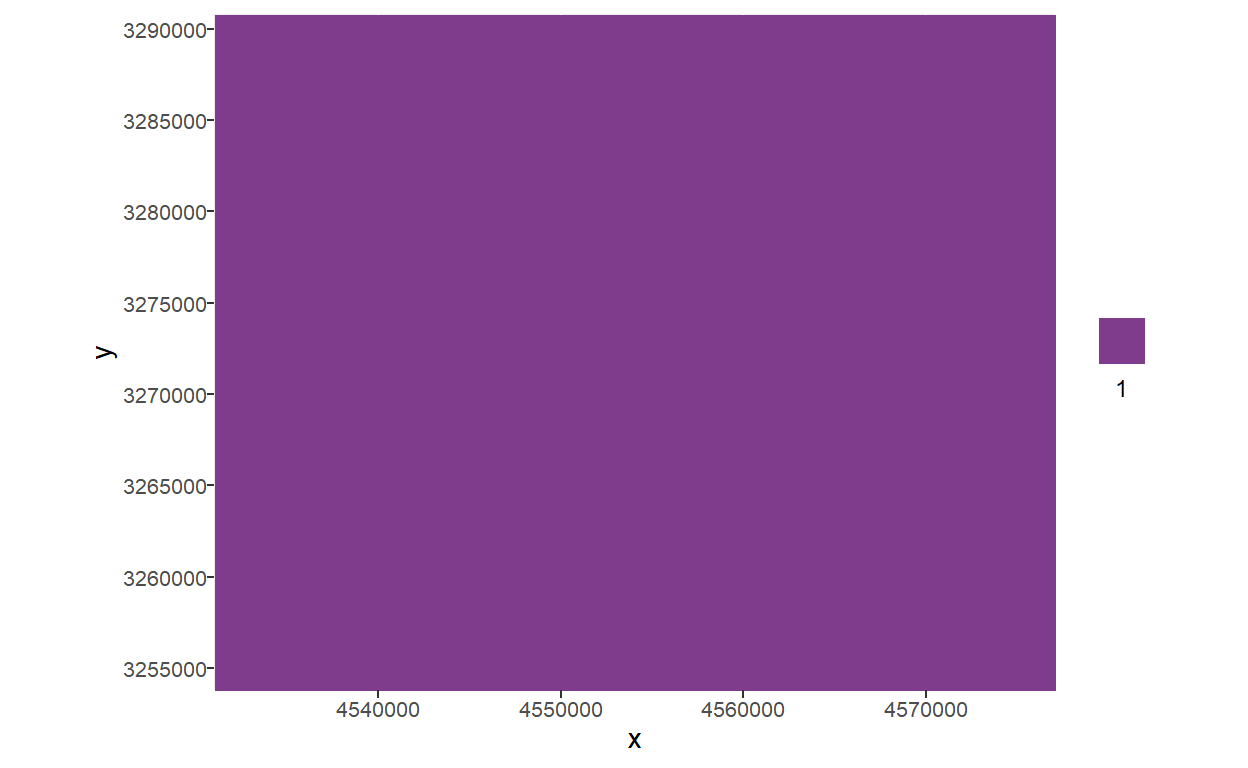
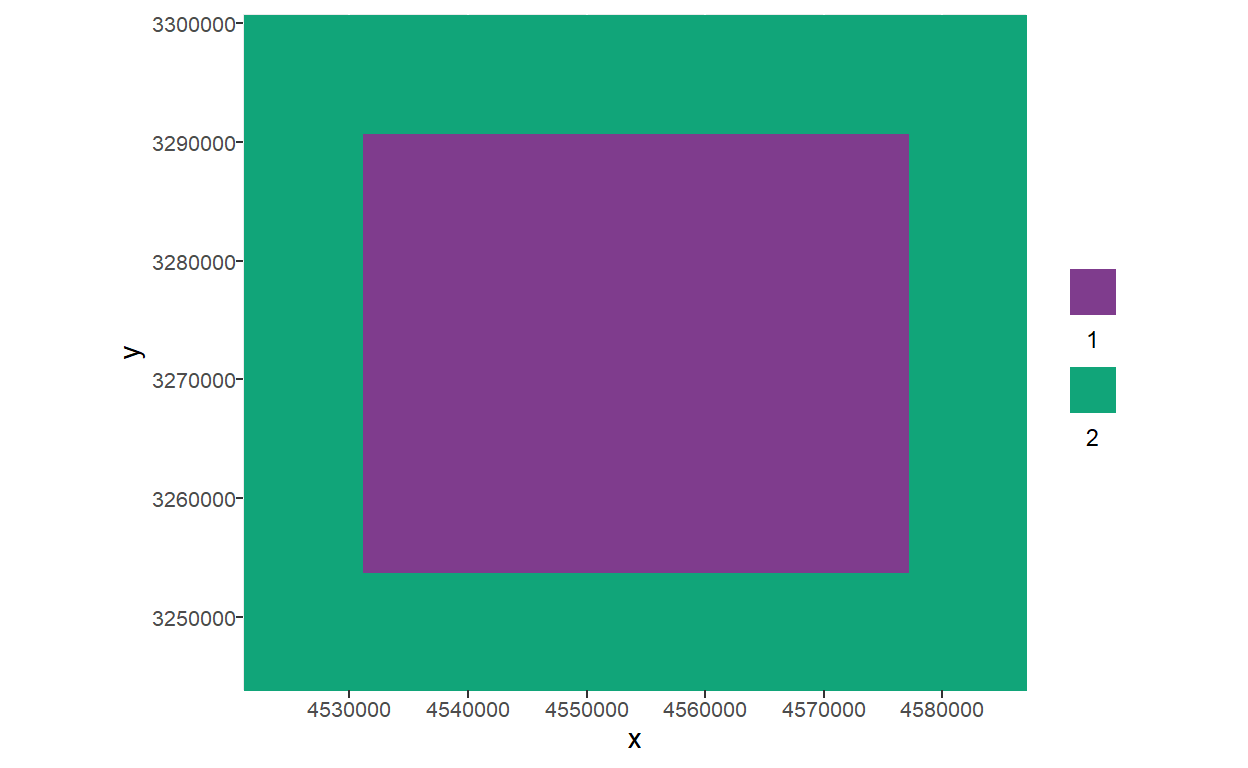
updated rastertemp post

diff --git a/_posts/rastertemplate/rastertemplate.html b/_posts/rastertemplate/rastertemplate.html
@@ -94,8 +94,8 @@ code span.wa { color: #5e5e5e; font-style: italic; } /* Warning */
 
 
   <!--  https://schema.org/Article -->
-  <meta property="article:published" itemprop="datePublished" content="2023-06-28"/>
-  <meta property="article:created" itemprop="dateCreated" content="2023-06-28"/>
+  <meta property="article:published" itemprop="datePublished" content="2023-07-11"/>
+  <meta property="article:created" itemprop="dateCreated" content="2023-07-11"/>
   <meta name="article:author" content="Moritz Wenzler-Meya"/>
 
   <!--  https://developers.facebook.com/docs/sharing/webmasters#markup -->
@@ -113,7 +113,7 @@ code span.wa { color: #5e5e5e; font-style: italic; } /* Warning */
   <!--radix_placeholder_rmarkdown_metadata-->
 
   <script type="text/json" id="radix-rmarkdown-metadata">
-  {"type":"list","attributes":{"names":{"type":"character","attributes":{},"value":["title","description","categories","author","date","output","draft"]}},"value":[{"type":"character","attributes":{},"value":["Raster Template"]},{"type":"character","attributes":{},"value":["Learn how to use a raster template from the `{d6geodata}` package und how to multiple/expand it. In the end we will rasterize a shapefile with the raster and have a look into different extraction functions.\n"]},{"type":"character","attributes":{},"value":["Tutorial","Spatial"]},{"type":"list","attributes":{},"value":[{"type":"list","attributes":{"names":{"type":"character","attributes":{},"value":["name","affiliation","affiliation_url"]}},"value":[{"type":"character","attributes":{},"value":["Moritz Wenzler-Meya"]},{"type":"character","attributes":{},"value":["IZW Berlin"]},{"type":"character","attributes":{},"value":["https://ecodynizw.github.io/"]}]}]},{"type":"character","attributes":{},"value":["2023-06-28"]},{"type":"list","attributes":{"names":{"type":"character","attributes":{},"value":["distill::distill_article"]}},"value":[{"type":"list","attributes":{"names":{"type":"character","attributes":{},"value":["self_contained","toc"]}},"value":[{"type":"logical","attributes":{},"value":[false]},{"type":"logical","attributes":{},"value":[true]}]}]},{"type":"logical","attributes":{},"value":[true]}]}
+  {"type":"list","attributes":{"names":{"type":"character","attributes":{},"value":["title","description","categories","author","date","output","draft"]}},"value":[{"type":"character","attributes":{},"value":["Raster Template"]},{"type":"character","attributes":{},"value":["Learn how to use a raster template from the `{d6geodata}` package und how to multiple/expand it. In the end we will rasterize a shapefile with the raster and have a look into different extraction functions.\n"]},{"type":"character","attributes":{},"value":["Tutorial","Spatial"]},{"type":"list","attributes":{},"value":[{"type":"list","attributes":{"names":{"type":"character","attributes":{},"value":["name","affiliation","affiliation_url"]}},"value":[{"type":"character","attributes":{},"value":["Moritz Wenzler-Meya"]},{"type":"character","attributes":{},"value":["IZW Berlin"]},{"type":"character","attributes":{},"value":["https://ecodynizw.github.io/"]}]}]},{"type":"character","attributes":{},"value":["2023-07-11"]},{"type":"list","attributes":{"names":{"type":"character","attributes":{},"value":["distill::distill_article"]}},"value":[{"type":"list","attributes":{"names":{"type":"character","attributes":{},"value":["self_contained","toc"]}},"value":[{"type":"logical","attributes":{},"value":[false]},{"type":"logical","attributes":{},"value":[true]}]}]},{"type":"logical","attributes":{},"value":[true]}]}
   </script>
   <!--/radix_placeholder_rmarkdown_metadata-->
   
@@ -1496,7 +1496,7 @@ code span.wa { color: #5e5e5e; font-style: italic; } /* Warning */
 <!--radix_placeholder_front_matter-->
 
 <script id="distill-front-matter" type="text/json">
-{"title":"Raster Template","description":"Learn how to use a raster template from the `{d6geodata}` package und how to multiple/expand it. In the end we will rasterize a shapefile with the raster and have a look into different extraction functions.","authors":[{"author":"Moritz Wenzler-Meya","authorURL":"#","affiliation":"IZW Berlin","affiliationURL":"https://ecodynizw.github.io/","orcidID":""}],"publishedDate":"2023-06-28T00:00:00.000+02:00","citationText":"Wenzler-Meya, 2023"}
+{"title":"Raster Template","description":"Learn how to use a raster template from the `{d6geodata}` package und how to multiple/expand it. In the end we will rasterize a shapefile with the raster and have a look into different extraction functions.","authors":[{"author":"Moritz Wenzler-Meya","authorURL":"#","affiliation":"IZW Berlin","affiliationURL":"https://ecodynizw.github.io/","orcidID":""}],"publishedDate":"2023-07-11T00:00:00.000+02:00","citationText":"Wenzler-Meya, 2023"}
 </script>
 
 <!--/radix_placeholder_front_matter-->
@@ -1519,7 +1519,7 @@ code span.wa { color: #5e5e5e; font-style: italic; } /* Warning */
 <div class="d-byline">
   Moritz Wenzler-Meya  (IZW Berlin)<a href="https://ecodynizw.github.io/" class="uri">https://ecodynizw.github.io/</a>
   
-<br/>2023-06-28
+<br/>2023-07-11
 </div>
 
 <div class="d-article">
@@ -1614,24 +1614,28 @@ code span.wa { color: #5e5e5e; font-style: italic; } /* Warning */
 <p><img src="rastertemplate_files/figure-html5/unnamed-chunk-5-1.png" width="624" data-distill-preview=1 /></p>
 </div>
 <h2 id="rasterize">rasterize vector data</h2>
+<p>With <code>vect()</code> you can make a spatVector (a kind of shapfile) out of an extent object.
+Afterwards, we can use this spatVector to rasterize the data. This works similar with an sf object.</p>
 <div class="layout-chunk" data-layout="l-body">
 <div class="sourceCode">
 <pre class="sourceCode r"><code class="sourceCode r"><span><span class='co'># first we need vector data</span></span>
 <span><span class='va'>temp_vec</span> <span class='op'>&lt;-</span> <span class='fu'>terra</span><span class='fu'>::</span><span class='fu'><a href='https://rdrr.io/pkg/terra/man/vect.html'>vect</a></span><span class='op'>(</span><span class='fu'><a href='https://rdrr.io/pkg/terra/man/ext.html'>ext</a></span><span class='op'>(</span><span class='va'>temp</span><span class='op'>)</span>, <span class='fu'><a href='https://rdrr.io/pkg/terra/man/crs.html'>crs</a></span><span class='op'>(</span><span class='va'>temp</span><span class='op'>)</span><span class='op'>)</span></span>
 <span></span>
-<span><span class='va'>temp_rast</span> <span class='op'>&lt;-</span> <span class='fu'><a href='https://rdrr.io/pkg/terra/man/rasterize.html'>rasterize</a></span><span class='op'>(</span><span class='va'>temp_vec</span>, <span class='va'>temp</span> <span class='op'><a href='https://magrittr.tidyverse.org/reference/pipe.html'>%&gt;%</a></span> <span class='fu'><a href='https://rdrr.io/pkg/terra/man/disaggregate.html'>disagg</a></span><span class='op'>(</span><span class='fl'>10</span><span class='op'>)</span><span class='op'>)</span></span>
+<span><span class='va'>temp_rast</span> <span class='op'>&lt;-</span> <span class='fu'><a href='https://rdrr.io/pkg/terra/man/rasterize.html'>rasterize</a></span><span class='op'>(</span><span class='va'>temp_vec</span>, <span class='co'># vector data</span></span>
+<span>                       <span class='va'>temp_exp_all</span> <span class='op'><a href='https://magrittr.tidyverse.org/reference/pipe.html'>%&gt;%</a></span> <span class='fu'><a href='https://rdrr.io/pkg/terra/man/disaggregate.html'>disagg</a></span><span class='op'>(</span><span class='fl'>10</span><span class='op'>)</span>, <span class='co'># raster data with larger extent, dissaggregated to 100m </span></span>
+<span>                       background <span class='op'>=</span> <span class='fl'>2</span><span class='op'>)</span> <span class='co'># set to 2 to visualize the difference</span></span>
 <span></span>
 <span><span class='va'>temp_rast</span></span></code></pre>
 </div>
 <pre><code>class       : SpatRaster 
-dimensions  : 370, 460, 1  (nrow, ncol, nlyr)
+dimensions  : 570, 660, 1  (nrow, ncol, nlyr)
 resolution  : 100, 100  (x, y)
-extent      : 4531040, 4577040, 3253790, 3290790  (xmin, xmax, ymin, ymax)
+extent      : 4521040, 4587040, 3243790, 3300790  (xmin, xmax, ymin, ymax)
 coord. ref. : +proj=laea +lat_0=52 +lon_0=10 +x_0=4321000 +y_0=3210000 +ellps=GRS80 +units=m +no_defs 
 source(s)   : memory
 name        : layer 
 min value   :     1 
-max value   :     1 </code></pre>
+max value   :     2 </code></pre>
 <div class="sourceCode">
 <pre class="sourceCode r"><code class="sourceCode r"><span><span class='fu'>d6geodata</span><span class='fu'>::</span><span class='fu'><a href='https://rdrr.io/pkg/d6geodata/man/plot_qualitative_map.html'>plot_qualitative_map</a></span><span class='op'>(</span><span class='va'>temp_rast</span><span class='op'>)</span></span></code></pre>
 </div>
@@ -1640,7 +1644,6 @@ max value   :     1 </code></pre>
 <pre class="sourceCode r"><code class="sourceCode r"><span><span class='co'>#</span></span></code></pre>
 </div>
 </div>
-<p>Please knit the whole document in the end, to test if it is working!</p>
 <div class="sourceCode" id="cb2"><pre class="sourceCode r distill-force-highlighting-css"><code class="sourceCode r"></code></pre></div>
 <!--radix_placeholder_article_footer-->
 <!--/radix_placeholder_article_footer-->
